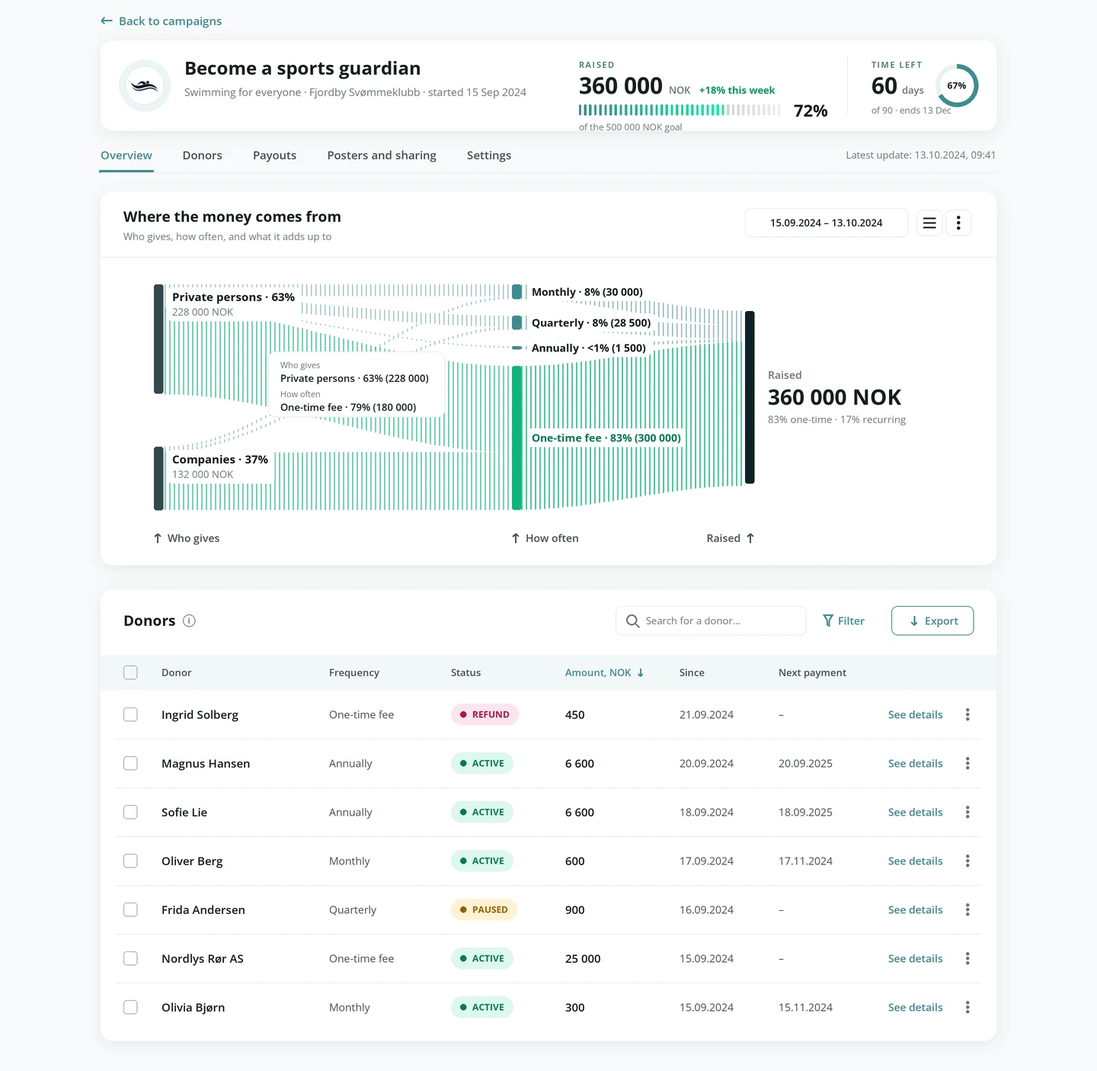
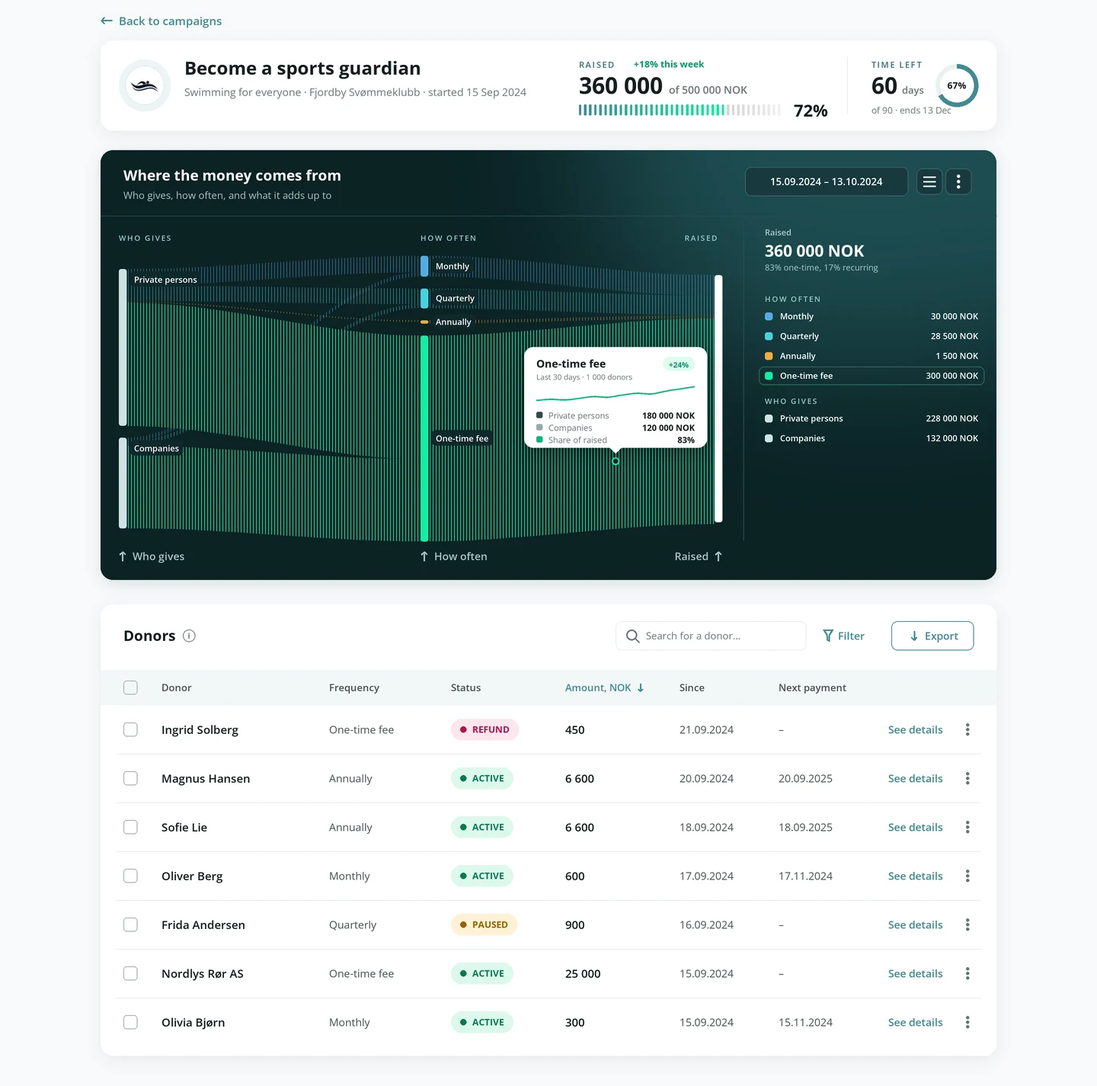
Sport Guardian admin: dark Sankey card back with its data, tooltip and legend under the new header; tabs removed; raised reads 360 000 of 500 000 NOK

diff --git a/SportGuardian.html b/SportGuardian.html
@@ -311,7 +311,7 @@ footer .wrap{display:flex;justify-content:space-between;gap:16px;flex-wrap:wrap}
 
 <figure class="c5-12 rv" style="--d:.1s"><div class="panel"><img class="el c" src="assets/work/sport-guardian/el-create-donations.webp" alt="From the campaign builder: Accept donations from private persons and companies, and Select donation frequency, from monthly to a one-time fee, each with a short hint." width="1200" height="1183" loading="lazy"></div><figcaption>For the club: who can give and how often, with a hint under every choice.</figcaption></figure>
 
-<figure class="c1-12 rv scroll"><div class="panel"><div class="browser" style="max-width:1000px"><div class="bar" aria-hidden="true"><i></i><i></i><i></i><span>admin.supporter.no</span></div><div class="vp fx" style="--to:-40.6%;--t:22s;--hd:4.514%"><img class="hd" src="assets/work/sport-guardian/screen-statistik-head.webp" alt="" width="1440" height="65" loading="lazy"><img src="assets/work/sport-guardian/screen-statistik-body.webp" alt="The campaign dashboard in the admin panel: a header card with the campaign, 360 000 NOK raised with a segmented progress bar at 72% of the goal and 60 days left; a Sankey of where the money comes from, private persons and companies through each frequency to the total, with a date range; and the donor table with search, Filter and Export, columns for frequency, status, amount and dates." width="1440" height="1405" loading="lazy"></div></div></div><figcaption style="max-width:64ch">The campaign dashboard: the goal and the days left at the top, where the money comes from, and every donor with refunds and pauses in one table.</figcaption></figure>
+<figure class="c1-12 rv scroll"><div class="panel"><div class="browser" style="max-width:1000px"><div class="bar" aria-hidden="true"><i></i><i></i><i></i><span>admin.supporter.no</span></div><div class="vp fx" style="--to:-41.4%;--t:22s;--hd:4.514%"><img class="hd" src="assets/work/sport-guardian/screen-statistik-head.webp" alt="" width="1440" height="65" loading="lazy"><img src="assets/work/sport-guardian/screen-statistik-body.webp" alt="The campaign dashboard in the admin panel: a header card with the campaign, 360 000 of 500 000 NOK raised with a segmented progress bar at 72% and 60 days left; a dark Sankey card with a date range, the flows from private persons and companies through each frequency to the total, a tooltip on One-time fee and a legend with every amount; and the donor table with search, Filter and Export." width="1440" height="1425" loading="lazy"></div></div></div><figcaption style="max-width:64ch">The campaign dashboard: the goal and the days left at the top, where the money comes from, and every donor with refunds and pauses in one table.</figcaption></figure>
       <div class="c1-12 rv charts">
         <div class="about"><h3>What this chart is</h3><p><b>A Sankey diagram.</b> Each band is as wide as the amount it carries, so you can follow the money from who gives, through how often they give, to the total.</p><p><b>When to use it:</b> when a whole splits and merges across stages and the question is where the volume goes, as with a budget, the money in a campaign, or the paths people take through a product. With more than about a dozen nodes, or when exact values must be compared, a table or a bar chart reads better.</p></div>
         <div><h3>Other charts, and when to use them</h3><ul class="ctypes"><li><svg viewBox="0 0 56 32" aria-hidden="true" focusable="false"><rect x="4" y="16" width="8" height="14" rx="1" fill="#CFE3E4"/><rect x="16" y="6" width="8" height="24" rx="1" fill="#418B91"/><rect x="28" y="12" width="8" height="18" rx="1" fill="#CFE3E4"/><rect x="40" y="20" width="8" height="10" rx="1" fill="#CFE3E4"/></svg><b>Bar chart</b><span>Compares amounts across categories, such as money raised per club or per campaign.</span></li><li><svg viewBox="0 0 56 32" aria-hidden="true" focusable="false"><path d="M3 26 L14 20 L24 22 L34 11 L44 13 L53 4" fill="none" stroke="#418B91" stroke-width="2" stroke-linejoin="round" stroke-linecap="round"/></svg><b>Line chart</b><span>Shows a trend over time, such as money raised day by day.</span></li><li><svg viewBox="0 0 56 32" aria-hidden="true" focusable="false"><path d="M3 26 L14 19 L24 21 L34 11 L44 12 L53 5 V30 H3 Z" fill="#CFE3E4"/><path d="M3 26 L14 19 L24 21 L34 11 L44 12 L53 5" fill="none" stroke="#418B91" stroke-width="2" stroke-linejoin="round"/></svg><b>Area chart</b><span>A line chart with the volume filled in: for a total that builds up over time.</span></li><li><svg viewBox="0 0 56 32" aria-hidden="true" focusable="false"><rect x="4" y="14" width="10" height="16" fill="#418B91"/><rect x="4" y="8" width="10" height="6" fill="#CFE3E4"/><rect x="22" y="10" width="10" height="20" fill="#418B91"/><rect x="22" y="3" width="10" height="7" fill="#CFE3E4"/><rect x="40" y="18" width="10" height="12" fill="#418B91"/><rect x="40" y="12" width="10" height="6" fill="#CFE3E4"/></svg><b>Stacked bar chart</b><span>Parts of a whole, compared across groups, such as one-time and recurring gifts per campaign.</span></li><li><svg viewBox="0 0 56 32" aria-hidden="true" focusable="false"><polygon points="28.0,2.0 40.1,9.0 40.1,23.0 28.0,30.0 15.9,23.0 15.9,9.0" fill="none" stroke="#CFE3E4" stroke-width="1"/><polygon points="28.0,7.0 35.8,11.5 35.8,20.5 28.0,25.0 20.2,20.5 20.2,11.5" fill="none" stroke="#CFE3E4" stroke-width="1"/><polygon points="28.0,11.5 31.9,13.8 31.9,18.2 28.0,20.5 24.1,18.2 24.1,13.8" fill="none" stroke="#CFE3E4" stroke-width="1"/><line x1="28" y1="16" x2="28.0" y2="2.0" stroke="#CFE3E4" stroke-width="1"/><line x1="28" y1="16" x2="40.1" y2="9.0" stroke="#CFE3E4" stroke-width="1"/><line x1="28" y1="16" x2="40.1" y2="23.0" stroke="#CFE3E4" stroke-width="1"/><line x1="28" y1="16" x2="28.0" y2="30.0" stroke="#CFE3E4" stroke-width="1"/><line x1="28" y1="16" x2="15.9" y2="23.0" stroke="#CFE3E4" stroke-width="1"/><line x1="28" y1="16" x2="15.9" y2="9.0" stroke="#CFE3E4" stroke-width="1"/><polygon points="28.0,4.0 34.9,12.0 39.3,22.5 28.0,22.0 19.3,21.0 20.2,11.5" fill="#418B91" fill-opacity=".35" stroke="#418B91" stroke-width="1.6" stroke-linejoin="round"/></svg><b>Radar chart</b><span>Compares several measures of one thing at once, such as how a club does on donors, gifts, reach and repeat giving against the average; reads best with five to eight measures.</span></li><li><svg viewBox="0 0 56 32" aria-hidden="true" focusable="false"><circle cx="28" cy="16" r="11" fill="none" stroke="#CFE3E4" stroke-width="5"/><path d="M28 5 A11 11 0 1 1 18.5 21.5" fill="none" stroke="#418B91" stroke-width="5"/></svg><b>Donut or progress ring</b><span>One share of a whole, or progress to a goal; reads best with one to three parts.</span></li><li><svg viewBox="0 0 56 32" aria-hidden="true" focusable="false"><rect x="4" y="3" width="48" height="6" rx="1" fill="#418B91"/><rect x="11" y="12" width="34" height="6" rx="1" fill="#418B91" fill-opacity=".7"/><rect x="18" y="21" width="20" height="6" rx="1" fill="#418B91" fill-opacity=".45"/></svg><b>Funnel chart</b><span>How many people drop off between the steps of a flow, from the campaign page to the payment.</span></li><li><svg viewBox="0 0 56 32" aria-hidden="true" focusable="false"><rect x="4" y="3" width="9" height="8" rx="1" fill="#418B91" fill-opacity="0.2"/><rect x="14" y="3" width="9" height="8" rx="1" fill="#418B91" fill-opacity="0.5"/><rect x="24" y="3" width="9" height="8" rx="1" fill="#418B91" fill-opacity="0.9"/><rect x="34" y="3" width="9" height="8" rx="1" fill="#418B91" fill-opacity="0.6"/><rect x="44" y="3" width="9" height="8" rx="1" fill="#418B91" fill-opacity="0.3"/><rect x="4" y="12" width="9" height="8" rx="1" fill="#418B91" fill-opacity="0.4"/><rect x="14" y="12" width="9" height="8" rx="1" fill="#418B91" fill-opacity="0.8"/><rect x="24" y="12" width="9" height="8" rx="1" fill="#418B91" fill-opacity="1"/><rect x="34" y="12" width="9" height="8" rx="1" fill="#418B91" fill-opacity="0.7"/><rect x="44" y="12" width="9" height="8" rx="1" fill="#418B91" fill-opacity="0.2"/><rect x="4" y="21" width="9" height="8" rx="1" fill="#418B91" fill-opacity="0.1"/><rect x="14" y="21" width="9" height="8" rx="1" fill="#418B91" fill-opacity="0.3"/><rect x="24" y="21" width="9" height="8" rx="1" fill="#418B91" fill-opacity="0.5"/><rect x="34" y="21" width="9" height="8" rx="1" fill="#418B91" fill-opacity="0.4"/><rect x="44" y="21" width="9" height="8" rx="1" fill="#418B91" fill-opacity="0.15"/></svg><b>Heatmap</b><span>Patterns across two dimensions, such as donations by weekday and hour.</span></li><li><svg viewBox="0 0 56 32" aria-hidden="true" focusable="false"><circle cx="6" cy="26" r="2.6" fill="#418B91"/><circle cx="12" cy="23" r="2.6" fill="#418B91"/><circle cx="16" cy="24" r="2.6" fill="#418B91"/><circle cx="21" cy="19" r="2.6" fill="#418B91"/><circle cx="26" cy="18" r="2.6" fill="#418B91"/><circle cx="30" cy="15" r="2.6" fill="#418B91"/><circle cx="35" cy="14" r="2.6" fill="#418B91"/><circle cx="39" cy="10" r="2.6" fill="#418B91"/><circle cx="44" cy="11" r="2.6" fill="#418B91"/><circle cx="49" cy="6" r="2.6" fill="#418B91"/><circle cx="24" cy="25" r="2.6" fill="#418B91"/><circle cx="42" cy="20" r="2.6" fill="#418B91"/></svg><b>Scatter plot</b><span>How two measures relate, such as the size of a gift and how often the donor gives.</span></li></ul></div>

diff --git a/tools/sport-guardian/admin_dash.py b/tools/sport-guardian/admin_dash.py
@@ -58,8 +58,8 @@ rx = 760
 _tracked(d, P(rx, y0+24), 'RAISED', f('SemiBold', 11), LAB, 1.6*S)
 text(rx, y0+70, '360 000', f('Bold', 30), INK, 'ls')
 nw_ = d.textlength('360 000', font=f('Bold', 30))/S
-text(rx+nw_+8, y0+70, 'NOK', f('SemiBold', 13), MUT, 'ls')
-text(rx+nw_+48, y0+70, '+18% this week', f('Bold', 13), UP, 'ls')
+text(rx+nw_+8, y0+70, 'of 500 000 NOK', f('SemiBold', 14), MUT, 'ls')
+text(rx+72, y0+31, '+18% this week', f('Bold', 12), UP, 'lm')
 bl, br, by, bh, n = rx, rx+268, y0+84, 14, 40; step = (br-bl)/n; on = round(n*.72)
 for k in range(n):
     if k < on:
@@ -68,7 +68,6 @@ for k in range(n):
         g = (k-on)/max(n-on-1, 1); col = tuple(int(212+(238-212)*g) for _ in range(3))
     d.rounded_rectangle(P(bl+k*step, by, bl+k*step+step*.42, by+bh), S, fill=col)
 text(br+14, by+bh/2, '72%', f('Bold', 22), INK, 'lm')
-text(rx, by+bh+20, 'of the 500 000 NOK goal', f('Regular', 12), MUT, 'ls')
 d.line(P(rx+352, y0+22, rx+352, y1-22), fill=LINE, width=S)
 # time left
 tx = rx+384
@@ -80,95 +79,38 @@ d.ellipse(P(ccx-cr, ccy-cr, ccx+cr, ccy+cr), outline=(234, 240, 241), width=6*S)
 d.arc(P(ccx-cr, ccy-cr, ccx+cr, ccy+cr), -90, -90+240, fill=TEAL, width=6*S)
 text(ccx, ccy, '67%', f('Bold', 12), INK, 'mm')
 
-# tabs, as in the reference
-ty = 268
-tabs = ['Overview', 'Donors', 'Payouts', 'Posters and sharing', 'Settings']; x = X0
-for i, t in enumerate(tabs):
-    fn = f('SemiBold', 15); w = d.textlength(t, font=fn)/S
-    text(x, ty, t, fn, TEAL if i == 0 else (70, 80, 84), 'lm')
-    if i == 0: d.rectangle(P(x-2, ty+20, x+w+2, ty+23), fill=TEAL)
-    x += w+40
-d.line(P(X0, ty+23, X1, ty+23), fill=LINE, width=S)
-text(X1, ty, 'Latest update: 13.10.2024, 09:41', f('Regular', 13), MUT, 'rm')
-
-# 2. the Sankey card
-y0 = 316; y1 = 806; card(X0, y0, X1, y1)
-text(X0+30, y0+40, 'Where the money comes from', f('Bold', 19), INK, 'ls')
-text(X0+30, y0+64, 'Who gives, how often, and what it adds up to', f('Regular', 13), MUT, 'ls')
-# date range and controls in the header
-pill(X1-330, y0+22, 214, 38, '15.09.2024 – 13.10.2024', f('SemiBold', 13), INK, CARD, outline=LINE, r=8)
-for k, cxx in enumerate([X1-88, X1-50]):
-    d.rounded_rectangle(P(cxx-17, y0+24, cxx+17, y0+58), 8*S, outline=LINE, width=S)
-d.line(P(X1-96, y0+35, X1-80, y0+35), fill=INK, width=2*S); d.line(P(X1-96, y0+41, X1-80, y0+41), fill=INK, width=2*S); d.line(P(X1-96, y0+47, X1-80, y0+47), fill=INK, width=2*S)
-for dy in (-7, 0, 7): d.ellipse(P(X1-52, y0+41+dy-2, X1-48, y0+41+dy+2), fill=INK)
-d.line(P(X0, y0+86, X1, y0+86), fill=LINE, width=S)
-# the flows: her dotted (hatched) bands, the one-time path in green
-SRC = ['Private persons', 'Companies']; FRQ = ['Monthly', 'Quarterly', 'Annually', 'One-time fee']
-total = sum(FLOWS.values()); top, bot = y0+124, y1-74; gap = 22
-k_ = (bot-top-gap*3)/total; hh = lambda v: max(v*k_, 4)
-def stack(names, vals, g):
-    tot = sum(hh(v) for v in vals)+g*(len(vals)-1); y = top+((bot-top)-tot)/2; o = {}
-    for nme, v in zip(names, vals): o[nme] = [y, y+hh(v)]; y += hh(v)+g
-    return o
-sv = [sum(v for (a, b), v in FLOWS.items() if a == nme) for nme in SRC]
-fv = [sum(v for (a, b), v in FLOWS.items() if b == nme) for nme in FRQ]
-Pn = stack(SRC, sv, 70); Mn = stack(FRQ, fv, gap); R = [top+((bot-top)-total*k_)/2, top+((bot-top)-total*k_)/2+total*k_]
-xL, xM, xR, NW = X0+70, X0+540, X1-330, 12
-def band(x0, a0, a1, x1, b0, b1, steps=60):
-    t_, b_ = [], []
-    for kk in range(steps+1):
-        t = kk/steps; e = t*t*(3-2*t); xx = x0+(x1-x0)*t
-        t_.append((xx, a0+(b0-a0)*e)); b_.append((xx, a1+(b1-a1)*e))
-    return t_+b_[::-1]
-hatch_t = Image.new('RGB', im.size, (255, 255, 255)); hd = ImageDraw.Draw(hatch_t)
-for xx in range(0, W*S, 6*S//1 if False else 12): hd.rectangle((xx, 0, xx+2, H*S), fill=TEAL)
-hatch_g = Image.new('RGB', im.size, (255, 255, 255)); gd = ImageDraw.Draw(hatch_g)
-for xx in range(0, W*S, 12): gd.rectangle((xx, 0, xx+3, H*S), fill=(13, 181, 122))
-mask_t = Image.new('L', im.size, 0); mask_g = Image.new('L', im.size, 0)
-pc = {nme: Pn[nme][0] for nme in SRC}; mc = {nme: Mn[nme][0] for nme in FRQ}
-for fq in FRQ:
-    for sname in SRC:
-        v = FLOWS.get((sname, fq))
-        if not v: continue
-        h_ = max(v*k_, 2); a0 = pc[sname]; pc[sname] += h_; b0 = mc[fq]; mc[fq] += h_
-        ImageDraw.Draw(mask_g if fq == 'One-time fee' else mask_t).polygon([P(*p) for p in band(xL+NW, a0, a0+h_, xM, b0, b0+h_)], fill=150 if fq == 'One-time fee' else 120)
-rc = R[0]
-for fq, v in zip(FRQ, fv):
-    h_ = max(Mn[fq][1]-Mn[fq][0], 2); a0 = Mn[fq][0]; b0 = rc; rc += Mn[fq][1]-Mn[fq][0]
-    ImageDraw.Draw(mask_g if fq == 'One-time fee' else mask_t).polygon([P(*p) for p in band(xM+NW, a0, a0+h_, xR, b0, b0+h_)], fill=190 if fq == 'One-time fee' else 150)
-im.paste(hatch_t, (0, 0), mask_t); im.paste(hatch_g, (0, 0), mask_g); d = ImageDraw.Draw(im)
-# nodes and labels: "name · share (amount)", as in the reference
-for nme, v in zip(SRC, sv):
-    a, b = Pn[nme]; d.rounded_rectangle(P(xL, a, xL+NW, b), 3*S, fill=(52, 72, 76))
-    l1 = f'{nme} · {round(v/total*100)}%'; wl = max(d.textlength(l1, font=f('Bold', 15)), d.textlength(f'{nok(v)} NOK', font=f('Regular', 13)))/S
-    d.rounded_rectangle(P(xL+NW+6, a+4, xL+NW+20+wl, a+48), 6*S, fill=(255, 255, 255))
-    text(xL+NW+12, a+22, l1, f('Bold', 15), INK, 'ls'); text(xL+NW+12, a+41, f'{nok(v)} NOK', f('Regular', 13), MUT, 'ls')
-for nme, v in zip(FRQ, fv):
-    a, b = Mn[nme]; b = max(b, a+4); hi = nme == 'One-time fee'
-    d.rounded_rectangle(P(xM, a, xM+NW, b), 3*S, fill=(13, 181, 122) if hi else TEAL)
-    sh_ = round(v/total*100); lab_ = f'{nme} · {sh_ if sh_ else "<1"}% ({nok(v)})'
-    ym = (a+b)/2 if b-a > 30 else (a+b)/2
-    fn = f('Bold', 14); wl = d.textlength(lab_, font=fn)/S
-    d.rounded_rectangle(P(xM+NW+8, ym-12, xM+NW+20+wl, ym+12), 6*S, fill=(255, 255, 255))
-    text(xM+NW+14, ym, lab_, fn, (8, 120, 82) if hi else INK, 'lm')
-d.rounded_rectangle(P(xR, R[0], xR+NW, R[1]), 3*S, fill=DEEP)
-ym = (R[0]+R[1])/2
-text(xR+NW+18, ym-24, 'Raised', f('SemiBold', 14), MUT, 'ls')
-text(xR+NW+18, ym+10, '360 000 NOK', f('Bold', 28), INK, 'ls')
-text(xR+NW+18, ym+34, '83% one-time · 17% recurring', f('Regular', 13), MUT, 'ls')
-# a tooltip, as on hover in the reference
-tx0, ty0 = xL+150, Pn['Private persons'][0]+88
-d.rounded_rectangle(P(tx0, ty0, tx0+232, ty0+86), 10*S, fill=(255, 255, 255), outline=LINE, width=S)
-text(tx0+16, ty0+22, 'Who gives', f('Regular', 11), MUT, 'ls'); text(tx0+16, ty0+40, 'Private persons · 63% (228 000)', f('SemiBold', 13), INK, 'ls')
-text(tx0+16, ty0+60, 'How often', f('Regular', 11), MUT, 'ls'); text(tx0+16, ty0+78, 'One-time fee · 79% (180 000)', f('SemiBold', 13), INK, 'ls')
-# column names along the bottom, with arrows, as in the reference
+# 2. the Sankey card: deep teal with a soft glow (as before), the new header with the date range and controls, the
+# chart as it was (its data, tooltip and legend, sankey.flow_body), and the column names along the bottom
+from sankey import flow_body
+y0 = 262; BODY = 420; y1 = y0+92+BODY+52
+sh = Image.new('L', im.size, 0); ImageDraw.Draw(sh).rounded_rectangle(P(X0+2, y0+6, X1-2, y1+3), 16*S, fill=40)
+im.paste(Image.new('RGB', im.size, (30, 60, 66)), (0, 0), sh.filter(ImageFilter.GaussianBlur(10*S)))
+cw, chh = (X1-X0)*S, (y1-y0)*S
+g = Image.new('RGB', (cw, chh), (11, 34, 36)); gl = Image.new('L', (cw, chh), 0)
+ImageDraw.Draw(gl).ellipse((int(cw*.55), -chh//2, int(cw*1.15), chh//2), fill=255)
+g = Image.composite(Image.new('RGB', (cw, chh), (29, 76, 80)), g, gl.filter(ImageFilter.GaussianBlur(90*S)))
+m = Image.new('L', (cw, chh), 0); ImageDraw.Draw(m).rounded_rectangle((0, 0, cw-1, chh-1), 16*S, fill=255)
+im.paste(g, P(X0, y0), m); d = ImageDraw.Draw(im)
+WK, WM, WL = (255, 255, 255), (167, 196, 198), (150, 196, 198)
+text(X0+30, y0+40, 'Where the money comes from', f('Bold', 19), WK, 'ls')
+text(X0+30, y0+64, 'Who gives, how often, and what it adds up to', f('Regular', 13), WM, 'ls')
+d.rounded_rectangle(P(X1-330, y0+22, X1-116, y0+60), 8*S, fill=(24, 58, 62), outline=(62, 100, 104), width=S)
+text(X1-223, y0+41, '15.09.2024 – 13.10.2024', f('SemiBold', 13), WK, 'mm')
+for cxx in (X1-88, X1-50):
+    d.rounded_rectangle(P(cxx-17, y0+24, cxx+17, y0+58), 8*S, fill=(24, 58, 62), outline=(62, 100, 104), width=S)
+for dy in (-6, 0, 6): d.line(P(X1-96, y0+41+dy, X1-80, y0+41+dy), fill=WK, width=2*S)
+for dy in (-7, 0, 7): d.ellipse(P(X1-52, y0+41+dy-2, X1-48, y0+41+dy+2), fill=WK)
+d.line(P(X0, y0+86, X1, y0+86), fill=(40, 74, 78), width=S)
+fb = flow_body(X1-X0, BODY); fb = fb.resize(((X1-X0)*S, BODY*S), Image.LANCZOS)
+im.paste(fb, P(X0, y0+100), fb); d = ImageDraw.Draw(im)
+xL, xM, xR, NW = X0+24, X0+420, X0+806, 10
 for xx, t, a in [(xL, 'Who gives', 'l'), (xM, 'How often', 'l'), (xR+NW, 'Raised', 'r')]:
-    fn = f('SemiBold', 14); w = d.textlength(t, font=fn)/S
-    if a == 'l': arrow(xx+5, y1-35, 'up', (70, 80, 84), 6); text(xx+18, y1-30, t, fn, (70, 80, 84), 'ls')
-    else: arrow(xx-5, y1-35, 'up', (70, 80, 84), 6); text(xx-18, y1-30, t, fn, (70, 80, 84), 'rs')
+    fn = f('SemiBold', 14)
+    if a == 'l': arrow(xx+5, y1-31, 'up', WM, 6); text(xx+18, y1-26, t, fn, WM, 'ls')
+    else: arrow(xx-5, y1-31, 'up', WM, 6); text(xx-18, y1-26, t, fn, WM, 'rs')
 
 # 3. the donor table: search, Filter and Export in its header, the column headers in the same card
-y0 = 838; rows = [('Ingrid Solberg', 'One-time fee', 'Refund', '450', '21.09.2024', '–'),
+y0 = y1+32; rows = [('Ingrid Solberg', 'One-time fee', 'Refund', '450', '21.09.2024', '–'),
                   ('Magnus Hansen', 'Annually', 'Active', '6 600', '20.09.2024', '20.09.2025'),
                   ('Sofie Lie', 'Annually', 'Active', '6 600', '18.09.2024', '18.09.2025'),
                   ('Oliver Berg', 'Monthly', 'Active', '600', '17.09.2024', '17.11.2024'),

diff --git a/tools/sport-guardian/sankey.py b/tools/sport-guardian/sankey.py
@@ -194,3 +194,106 @@ def dashboard_sankey(im, H_BLOCK=470, chart=True):
         y += 26*s
     put(c, x0, y1)
     return out
+
+
+def flow_body(w1, h1):
+    """The chart part of the flow card above, on a transparent ground (2026-10-14, her request: keep this chart, its
+    data, tooltip and legend, inside the new dashboard card with its header and filters)."""
+    from PIL import ImageChops
+    s = S; c = Image.new('RGBA', (w1*s, h1*s), (0, 0, 0, 0)); d = ImageDraw.Draw(c)
+    WK, WM, WL = (255, 255, 255), (167, 196, 198), (150, 196, 198)
+    ct, cb, gapn = 40*s, (h1-8)*s, 16*s
+    total = sum(FLOWS.values()); kk = ((cb-ct)-gapn*3)/total
+    hgt = lambda v: max(v*kk, 4*s)
+
+    def stack(names, vals):
+        y = ct+((cb-ct)-(sum(hgt(v) for v in vals)+gapn*(len(vals)-1)))/2; pos = {}
+        for n, v in zip(names, vals):
+            pos[n] = [y, y+hgt(v), y, y]; y += hgt(v)+gapn
+        return pos
+    srcs = ['Private persons', 'Companies']; sv = [sum(v for (a, b), v in FLOWS.items() if a == n) for n in srcs]
+    fr = [n for n, _ in FREQ]; fv = [sum(v for (a, b), v in FLOWS.items() if b == n) for n in fr]
+    # the same four hues, lighter for the dark ground; One-time fee in the brand green
+    col = {'Monthly': (84, 172, 226), 'Quarterly': (72, 210, 222), 'Annually': (240, 172, 64), 'One-time fee': GREEN}; FOCUS = 'One-time fee'
+    xL, xM, xR, nw = 24*s, 420*s, 806*s, 10*s
+    P = stack(srcs, sv); M = stack(fr, fv)
+    ry = ct+((cb-ct)-total*kk)/2; R = [ry, ry+total*kk, ry]
+    masks = {f: Image.new('L', c.size, 0) for f in fr}
+    for f in fr:
+        md = ImageDraw.Draw(masks[f])
+        for sname in srcs:
+            v = FLOWS.get((sname, f))
+            if not v: continue
+            h = max(v*kk, 2*s); a0 = P[sname][2]; P[sname][2] += h; b0 = M[f][2]; M[f][2] += h
+            _ribbon(md, xL+nw, a0, a0+h, xM, b0, b0+h, 255)
+    for f in fr:
+        h = max(M[f][1]-M[f][0], 2*s); a0 = M[f][0]; b0 = R[2]; R[2] += (M[f][1]-M[f][0])
+        _ribbon(ImageDraw.Draw(masks[f]), xM+nw, a0, a0+h, xR, b0, b0+h, 255)
+    # fine vertical lines, 1 px every 4 px; the hovered flow at full strength, the others quieter
+    stripes = Image.new('L', c.size, 0); sd = ImageDraw.Draw(stripes)
+    for x in range(0, c.width, 4*s): sd.rectangle((x, 0, x+s-1, c.height), fill=255)
+    for f in fr:
+        a = ImageChops.multiply(masks[f], stripes).point(lambda v, k=(235 if f == FOCUS else 120): v*k//255)  # (full for the hovered flow)
+        lay = Image.new('RGBA', c.size, col[f]+(0,)); lay.putalpha(a); c = Image.alpha_composite(c, lay)
+    d = ImageDraw.Draw(c)
+    hf = FONT('SemiBold', 10*s)
+    for x, t in ((xL, 'WHO GIVES'), (xM, 'HOW OFTEN')):
+        _tracked(d, (x, 8*s), t, hf, WL, 1.6*s)
+    rt = 'RAISED'; _tracked(d, (xR+nw-(len(rt)*8.2)*s, 8*s), rt, hf, WL, 1.6*s)
+    lf = FONT('SemiBold', 11*s); NODE = (207, 227, 228); PL = (15, 40, 43)
+
+    def plate(x, y, t, fill=WK):  # a small dark plate so a label reads over the lines
+        tw = d.textlength(t, font=lf); d.rounded_rectangle((x-5*s, y-3*s, x+tw+5*s, y+17*s), 5*s, fill=PL)
+        d.text((x, y), t, font=lf, fill=fill)
+    for n in srcs:
+        a, b = P[n][0], P[n][1]; d.rounded_rectangle((xL, a, xL+nw, b), 3*s, fill=NODE)
+        plate(xL+nw+10*s, a+6*s, n)
+    for n in fr:
+        a, b = M[n][0], max(M[n][1], M[n][0]+4*s); ym = (a+b)/2
+        d.rounded_rectangle((xM, a, xM+nw, b), 3*s, fill=col[n])
+        plate(xM+nw+10*s, ym-8*s, n)
+    d.rounded_rectangle((xR, R[0], xR+nw, R[1]), 3*s, fill=(255, 255, 255))
+
+    # the tooltip, as if the pointer rests on the One-time fee flow
+    a, b = M[FOCUS][0], M[FOCUS][1]; ptx, pty = 676*s, (a+b)/2+30*s
+    d.ellipse((ptx-5*s, pty-5*s, ptx+5*s, pty+5*s), fill=(11, 34, 36), outline=col[FOCUS], width=2*s)
+    tx, ty, tw_, th = 556*s, pty-150*s, 240*s, 132*s
+    sh = Image.new('L', c.size, 0); ImageDraw.Draw(sh).rounded_rectangle((tx, ty+6*s, tx+tw_, ty+th+6*s), 12*s, fill=70)
+    shl = Image.new('RGBA', c.size, (0, 10, 12, 0)); shl.putalpha(sh.filter(ImageFilter.GaussianBlur(10*s))); c = Image.alpha_composite(c, shl)
+    d = ImageDraw.Draw(c); TT = (255, 255, 255); TM = (106, 119, 124); TI = (20, 30, 32)
+    d.rounded_rectangle((tx, ty, tx+tw_, ty+th), 12*s, fill=TT)
+    d.polygon([(ptx-8*s, ty+th), (ptx+8*s, ty+th), (ptx, ty+th+8*s)], fill=TT)
+    d.text((tx+16*s, ty+12*s), 'One-time fee', font=FONT('Bold', 14*s), fill=TI)
+    d.text((tx+16*s, ty+32*s), 'Last 30 days · 1 000 donors', font=FONT('Regular', 10*s), fill=TM)
+    ch = '+24%'; cf = FONT('Bold', 10*s); cw = d.textlength(ch, font=cf)
+    d.rounded_rectangle((tx+tw_-16*s-cw-16*s, ty+13*s, tx+tw_-16*s, ty+31*s), 9*s, fill=(221, 251, 240))
+    d.text((tx+tw_-16*s-cw-8*s, ty+16*s), ch, font=cf, fill=(8, 150, 100))
+    _spark(d, (tx+16*s, ty+52*s, tx+tw_-16*s, ty+70*s), [5, 7, 6, 9, 12, 11, 15, 18, 17, 22, 26, 30], (13, 181, 122), None, 2*s)
+    rf, vf2 = FONT('Regular', 11*s), FONT('Bold', 11*s)
+    for k, (dot, t, v) in enumerate([((52, 72, 76), 'Private persons', '180 000 NOK'), ((150, 170, 174), 'Companies', '120 000 NOK'), ((13, 181, 122), 'Share of raised', '83%')]):
+        yy = ty+82*s+k*16*s
+        d.rounded_rectangle((tx+16*s, yy+3*s, tx+24*s, yy+11*s), 2*s, fill=dot)
+        d.text((tx+32*s, yy), t, font=rf, fill=TM)
+        d.text((tx+tw_-16*s-d.textlength(v, font=vf2), yy), v, font=vf2, fill=TI)
+
+    # the legend on the right: every amount next to a marker in its flow's colour
+    lx, rx = 872*s, (w1-24)*s
+    d.line((lx-28*s, 0, lx-28*s, cb), fill=(40, 74, 78), width=s)
+    y = 0
+    d.text((lx, y), 'Raised', font=lf, fill=WM)
+    d.text((lx, y+17*s), '360 000 NOK', font=FONT('Bold', 21*s), fill=WK)
+    d.text((lx, y+46*s), '83% one-time, 17% recurring', font=FONT('Regular', 11*s), fill=WM)
+    vf = FONT('SemiBold', 11*s)
+    y += 80*s
+    rows = [('HOW OFTEN', None, None)] + [(n, v, col[n]) for n, v in zip(fr, fv)] \
+         + [('WHO GIVES', None, None)] + [(n, v, NODE) for n, v in zip(srcs, sv)]
+    for n, v, mc in rows:
+        if v is None:
+            y += 8*s; _tracked(d, (lx, y), n, hf, WL, 1.6*s); y += 22*s; continue
+        yc = y+8*s
+        d.rounded_rectangle((lx, yc-5*s, lx+10*s, yc+5*s), 3*s, fill=mc)
+        if n == FOCUS: d.rounded_rectangle((lx-8*s, yc-12*s, rx+8*s, yc+12*s), 7*s, outline=(46, 110, 92), width=s)
+        d.text((lx+20*s, yc-8*s), n, font=lf, fill=WK)
+        t = f'{v:,}'.replace(',', ' ')+' NOK'; d.text((rx-d.textlength(t, font=vf), yc-8*s), t, font=vf, fill=WK)
+        y += 26*s
+    return c

diff --git a/sportguardian.md b/sportguardian.md
@@ -63,4 +63,5 @@ The admin screen in the Product section is now drawn from scratch by [`tools/spo
 - **Sankey card**, "Where the money comes from": a date range (15.09.2024 – 13.10.2024) and controls in the header; her dotted (hatched) flows kept (her request), teal, the One-time fee path green; node labels as "name · share (amount)"; one tooltip shown as on hover; the column names along the bottom with arrows (Who gives, How often, Raised).
 - **Donor table**: title, search, Filter and Export in the card header, the column headers in the same card (Donor, Frequency, Status, Amount, Since, Next payment), seven made-up donors, status pills with a dot and a text label (Active, Refund, Paused), See details and a menu per row.
 The separate dark "Where the money comes from" block on the page is removed (her choice: the Sankey lives inside the admin). The "What this chart is" and "Other charts" notes stay, under the dashboard. The dashboard scrolls slowly inside the browser frame. All figures are made up for the mockup.
+Then (2026-10-14, her request): the Sankey card is the dark one again, deep teal with a soft glow, with the chart as it was (its data, the tooltip on One-time fee and the legend with every amount on the right; `sankey.flow_body`), under the new header with the date range and controls, and with Who gives, How often and Raised along the bottom. The tabs are removed. RAISED reads "360 000 of 500 000 NOK" with "+18% this week" beside the label, and no goal line under the bar.
 
